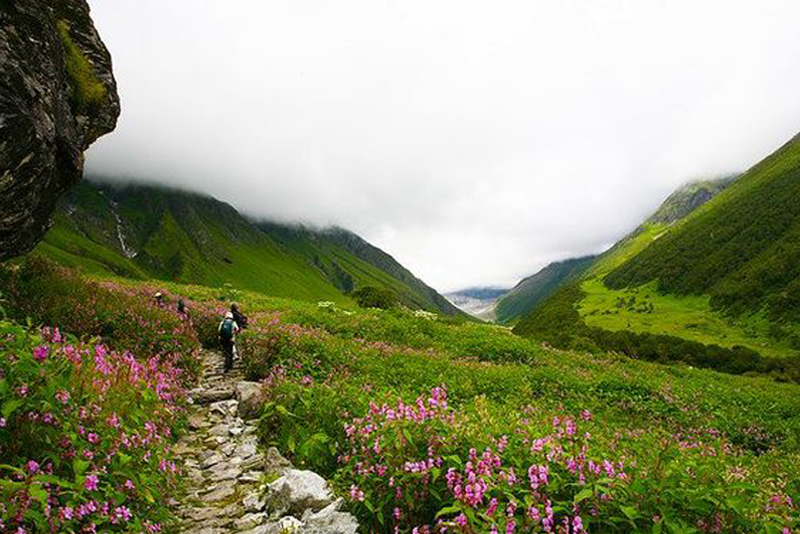
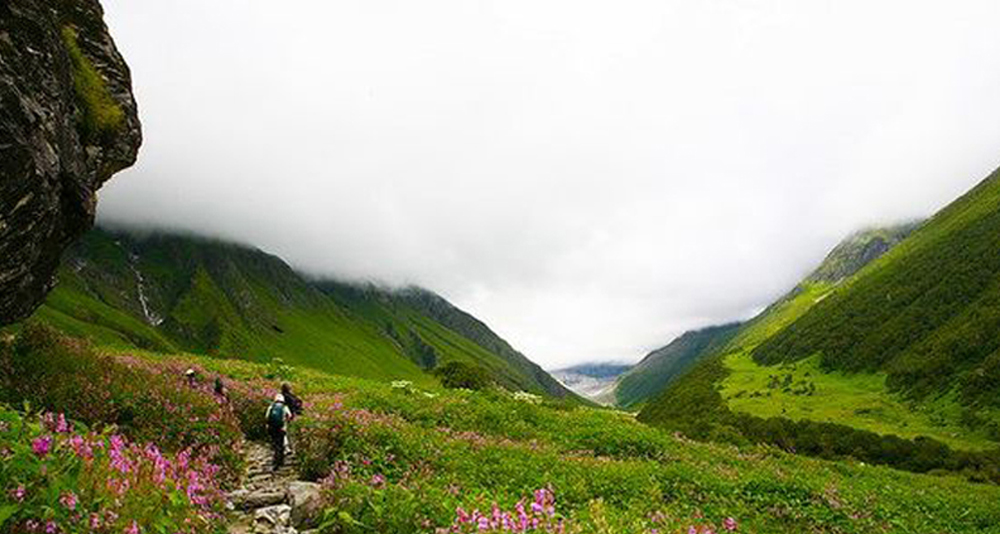
commit

diff --git a/rishikesh-location.html b/rishikesh-location.html
@@ -135,7 +135,7 @@
                             <hr class="custom-underline">
                             <p class="text-justify">Rishikesh, often referred to as the "Yoga Capital of the World," is nestled in the foothills of the Himalayas along the sacred Ganges River. Known for its spiritual ambiance and serene surroundings, Rishikesh is an ideal destination for those seeking inner peace, self-discovery, and a deeper connection with nature.</p>
                             <div class="text-center">
-                                <img src="images/rishikesh-yoga-1.jpg" class="img-fluid rounded" alt="Rishikesh Overview">
+                                <img src="images/rishikesh-first.jpg" class="img-fluid rounded" alt="Rishikesh Overview">
                             </div>
                         </div>
                     </div>
@@ -223,7 +223,7 @@
                                                 <img src="images/dinning area.jpg" class="d-block w-100" alt="Room Interior">
                                             </div>
                                             <div class="carousel-item">
-                                                <img src="images/sharedroom1.jpg" class="d-block w-100" alt="Yoga Area">
+                                                <img src="images/bathroom.jpg" class="d-block w-100" alt="Bathroom">
                                             </div>
                                         </div>
                                         <a class="carousel-control-prev" href="#carouselAccommodation1" role="button" data-bs-slide="prev">
@@ -238,10 +238,10 @@
                                     <!-- Amenities List for Accommodation Option 1 -->
                                     <ul class="list-group list-group-flush mt-3">
                                         <li class="list-group-item d-flex align-items-center">
-                                            <i class="fas fa-bed text-theme me-2"></i>Single Beds
+                                            <i class="fas fa-bed text-theme me-2"></i>Private Room
                                         </li>
                                         <li class="list-group-item d-flex align-items-center">
-                                            <i class="fas fa-bath text-theme me-2"></i>AC / Wi-Fi
+                                            <i class="fas fa-bath text-theme me-2"></i>Bathroom Amenities
                                         </li>
                                         <li class="list-group-item d-flex align-items-center">
                                             <i class="fas fa-utensils text-theme me-2"></i>In-Room Dining Service
@@ -278,13 +278,13 @@
                                     <!-- Amenities List for Accommodation Option 2 -->
                                     <ul class="list-group list-group-flush mt-3">
                                         <li class="list-group-item d-flex align-items-center">
-                                            <i class="fas fa-bed text-theme me-2"></i>Double Bed
+                                            <i class="fas fa-bed text-theme me-2"></i>Shared Room
                                         </li>
                                         <li class="list-group-item d-flex align-items-center">
                                             <i class="fas fa-bath text-theme me-2"></i>Bathroom Amenities
                                         </li>
                                         <li class="list-group-item d-flex align-items-center">
-                                            <i class="fas fa-tree text-theme me-2"></i>Private Balcony with Garden View
+                                            <i class="fas fa-tree text-theme me-2"></i>Welcoming Reception Area
                                         </li>
                                         <li class="list-group-item d-flex align-items-center">
                                             <i class="fas fa-yin-yang text-theme me-2"></i>Complimentary Yoga Mats & Props

diff --git a/3-days-yoga-retreats.html b/3-days-yoga-retreats.html
@@ -448,7 +448,7 @@
                                                     <img src="images/dinning area.jpg" class="d-block w-100" alt="Room Interior">
                                                 </div>
                                                 <div class="carousel-item">
-                                                    <img src="images/sharedroom1.jpg" class="d-block w-100" alt="Yoga Area">
+                                                    <img src="images/bathroom.jpg" class="d-block w-100" alt="Bathroom">
                                                 </div>
                                             </div>
                                             <a class="carousel-control-prev" href="#carouselAccommodation1" role="button" data-bs-slide="prev">
@@ -463,10 +463,10 @@
                                         <!-- Amenities List for Accommodation Option 1 -->
                                         <ul class="list-group list-group-flush mt-3">
                                             <li class="list-group-item d-flex align-items-center">
-                                                <i class="fas fa-bed text-theme me-2"></i>Single Beds
+                                                <i class="fas fa-bed text-theme me-2"></i>Private Room
                                             </li>
                                             <li class="list-group-item d-flex align-items-center">
-                                                <i class="fas fa-bath text-theme me-2"></i>AC / Wi-Fi
+                                                <i class="fas fa-bath text-theme me-2"></i>Bathroom Amenities
                                             </li>
                                             <li class="list-group-item d-flex align-items-center">
                                                 <i class="fas fa-utensils text-theme me-2"></i>In-Room Dining Service
@@ -476,7 +476,7 @@
                                             </li>
                                         </ul>
                                     </div>
-
+    
                                     <!-- Second Carousel for Accommodation Option 2 -->
                                     <div class="col-lg-6 mb-4">
                                         <div id="carouselAccommodation2" class="carousel slide" data-bs-ride="carousel">
@@ -503,13 +503,13 @@
                                         <!-- Amenities List for Accommodation Option 2 -->
                                         <ul class="list-group list-group-flush mt-3">
                                             <li class="list-group-item d-flex align-items-center">
-                                                <i class="fas fa-bed text-theme me-2"></i>Double Bed
+                                                <i class="fas fa-bed text-theme me-2"></i>Shared Room
                                             </li>
                                             <li class="list-group-item d-flex align-items-center">
                                                 <i class="fas fa-bath text-theme me-2"></i>Bathroom Amenities
                                             </li>
                                             <li class="list-group-item d-flex align-items-center">
-                                                <i class="fas fa-tree text-theme me-2"></i>Private Balcony with Garden View
+                                                <i class="fas fa-tree text-theme me-2"></i>Welcoming Reception Area
                                             </li>
                                             <li class="list-group-item d-flex align-items-center">
                                                 <i class="fas fa-yin-yang text-theme me-2"></i>Complimentary Yoga Mats & Props

diff --git a/5-days-yoga-retreats.html b/5-days-yoga-retreats.html
@@ -498,7 +498,7 @@
                                                     <img src="images/dinning area.jpg" class="d-block w-100" alt="Room Interior">
                                                 </div>
                                                 <div class="carousel-item">
-                                                    <img src="images/sharedroom1.jpg" class="d-block w-100" alt="Yoga Area">
+                                                    <img src="images/bathroom.jpg" class="d-block w-100" alt="Bathroom">
                                                 </div>
                                             </div>
                                             <a class="carousel-control-prev" href="#carouselAccommodation1" role="button" data-bs-slide="prev">
@@ -513,10 +513,10 @@
                                         <!-- Amenities List for Accommodation Option 1 -->
                                         <ul class="list-group list-group-flush mt-3">
                                             <li class="list-group-item d-flex align-items-center">
-                                                <i class="fas fa-bed text-theme me-2"></i>Single Beds
+                                                <i class="fas fa-bed text-theme me-2"></i>Private Room
                                             </li>
                                             <li class="list-group-item d-flex align-items-center">
-                                                <i class="fas fa-bath text-theme me-2"></i>AC / Wi-Fi
+                                                <i class="fas fa-bath text-theme me-2"></i>Bathroom Amenities
                                             </li>
                                             <li class="list-group-item d-flex align-items-center">
                                                 <i class="fas fa-utensils text-theme me-2"></i>In-Room Dining Service
@@ -526,7 +526,7 @@
                                             </li>
                                         </ul>
                                     </div>
-
+    
                                     <!-- Second Carousel for Accommodation Option 2 -->
                                     <div class="col-lg-6 mb-4">
                                         <div id="carouselAccommodation2" class="carousel slide" data-bs-ride="carousel">
@@ -553,13 +553,13 @@
                                         <!-- Amenities List for Accommodation Option 2 -->
                                         <ul class="list-group list-group-flush mt-3">
                                             <li class="list-group-item d-flex align-items-center">
-                                                <i class="fas fa-bed text-theme me-2"></i>Double Bed
+                                                <i class="fas fa-bed text-theme me-2"></i>Shared Room
                                             </li>
                                             <li class="list-group-item d-flex align-items-center">
                                                 <i class="fas fa-bath text-theme me-2"></i>Bathroom Amenities
                                             </li>
                                             <li class="list-group-item d-flex align-items-center">
-                                                <i class="fas fa-tree text-theme me-2"></i>Private Balcony with Garden View
+                                                <i class="fas fa-tree text-theme me-2"></i>Welcoming Reception Area
                                             </li>
                                             <li class="list-group-item d-flex align-items-center">
                                                 <i class="fas fa-yin-yang text-theme me-2"></i>Complimentary Yoga Mats & Props

diff --git a/7-days-yoga-retreats.html b/7-days-yoga-retreats.html
@@ -444,7 +444,7 @@
                                                     <img src="images/dinning area.jpg" class="d-block w-100" alt="Room Interior">
                                                 </div>
                                                 <div class="carousel-item">
-                                                    <img src="images/sharedroom1.jpg" class="d-block w-100" alt="Yoga Area">
+                                                    <img src="images/bathroom.jpg" class="d-block w-100" alt="Bathroom">
                                                 </div>
                                             </div>
                                             <a class="carousel-control-prev" href="#carouselAccommodation1" role="button" data-bs-slide="prev">
@@ -459,10 +459,10 @@
                                         <!-- Amenities List for Accommodation Option 1 -->
                                         <ul class="list-group list-group-flush mt-3">
                                             <li class="list-group-item d-flex align-items-center">
-                                                <i class="fas fa-bed text-theme me-2"></i>Single Beds
+                                                <i class="fas fa-bed text-theme me-2"></i>Private Room
                                             </li>
                                             <li class="list-group-item d-flex align-items-center">
-                                                <i class="fas fa-bath text-theme me-2"></i>AC / Wi-Fi
+                                                <i class="fas fa-bath text-theme me-2"></i>Bathroom Amenities
                                             </li>
                                             <li class="list-group-item d-flex align-items-center">
                                                 <i class="fas fa-utensils text-theme me-2"></i>In-Room Dining Service
@@ -472,7 +472,7 @@
                                             </li>
                                         </ul>
                                     </div>
-
+    
                                     <!-- Second Carousel for Accommodation Option 2 -->
                                     <div class="col-lg-6 mb-4">
                                         <div id="carouselAccommodation2" class="carousel slide" data-bs-ride="carousel">
@@ -499,13 +499,13 @@
                                         <!-- Amenities List for Accommodation Option 2 -->
                                         <ul class="list-group list-group-flush mt-3">
                                             <li class="list-group-item d-flex align-items-center">
-                                                <i class="fas fa-bed text-theme me-2"></i>Double Bed
+                                                <i class="fas fa-bed text-theme me-2"></i>Shared Room
                                             </li>
                                             <li class="list-group-item d-flex align-items-center">
                                                 <i class="fas fa-bath text-theme me-2"></i>Bathroom Amenities
                                             </li>
                                             <li class="list-group-item d-flex align-items-center">
-                                                <i class="fas fa-tree text-theme me-2"></i>Private Balcony with Garden View
+                                                <i class="fas fa-tree text-theme me-2"></i>Welcoming Reception Area
                                             </li>
                                             <li class="list-group-item d-flex align-items-center">
                                                 <i class="fas fa-yin-yang text-theme me-2"></i>Complimentary Yoga Mats & Props

diff --git a/chopta-location.html b/chopta-location.html
@@ -222,7 +222,7 @@
                                                 <img src="images/dinning area.jpg" class="d-block w-100" alt="Room Interior">
                                             </div>
                                             <div class="carousel-item">
-                                                <img src="images/sharedroom1.jpg" class="d-block w-100" alt="Yoga Area">
+                                                <img src="images/bathroom.jpg" class="d-block w-100" alt="Bathroom">
                                             </div>
                                         </div>
                                         <a class="carousel-control-prev" href="#carouselAccommodation1" role="button" data-bs-slide="prev">
@@ -237,10 +237,10 @@
                                     <!-- Amenities List for Accommodation Option 1 -->
                                     <ul class="list-group list-group-flush mt-3">
                                         <li class="list-group-item d-flex align-items-center">
-                                            <i class="fas fa-bed text-theme me-2"></i>Single Beds
+                                            <i class="fas fa-bed text-theme me-2"></i>Private Room
                                         </li>
                                         <li class="list-group-item d-flex align-items-center">
-                                            <i class="fas fa-bath text-theme me-2"></i>AC / Wi-Fi
+                                            <i class="fas fa-bath text-theme me-2"></i>Bathroom Amenities
                                         </li>
                                         <li class="list-group-item d-flex align-items-center">
                                             <i class="fas fa-utensils text-theme me-2"></i>In-Room Dining Service
@@ -277,13 +277,13 @@
                                     <!-- Amenities List for Accommodation Option 2 -->
                                     <ul class="list-group list-group-flush mt-3">
                                         <li class="list-group-item d-flex align-items-center">
-                                            <i class="fas fa-bed text-theme me-2"></i>Double Bed
+                                            <i class="fas fa-bed text-theme me-2"></i>Shared Room
                                         </li>
                                         <li class="list-group-item d-flex align-items-center">
                                             <i class="fas fa-bath text-theme me-2"></i>Bathroom Amenities
                                         </li>
                                         <li class="list-group-item d-flex align-items-center">
-                                            <i class="fas fa-tree text-theme me-2"></i>Private Balcony with Garden View
+                                            <i class="fas fa-tree text-theme me-2"></i>Welcoming Reception Area
                                         </li>
                                         <li class="list-group-item d-flex align-items-center">
                                             <i class="fas fa-yin-yang text-theme me-2"></i>Complimentary Yoga Mats & Props

diff --git a/himalaya-location.html b/himalaya-location.html
@@ -222,7 +222,7 @@
                                                 <img src="images/dinning area.jpg" class="d-block w-100" alt="Room Interior">
                                             </div>
                                             <div class="carousel-item">
-                                                <img src="images/sharedroom1.jpg" class="d-block w-100" alt="Yoga Area">
+                                                <img src="images/bathroom.jpg" class="d-block w-100" alt="Bathroom">
                                             </div>
                                         </div>
                                         <a class="carousel-control-prev" href="#carouselAccommodation1" role="button" data-bs-slide="prev">
@@ -237,10 +237,10 @@
                                     <!-- Amenities List for Accommodation Option 1 -->
                                     <ul class="list-group list-group-flush mt-3">
                                         <li class="list-group-item d-flex align-items-center">
-                                            <i class="fas fa-bed text-theme me-2"></i>Single Beds
+                                            <i class="fas fa-bed text-theme me-2"></i>Private Room
                                         </li>
                                         <li class="list-group-item d-flex align-items-center">
-                                            <i class="fas fa-bath text-theme me-2"></i>AC / Wi-Fi
+                                            <i class="fas fa-bath text-theme me-2"></i>Bathroom Amenities
                                         </li>
                                         <li class="list-group-item d-flex align-items-center">
                                             <i class="fas fa-utensils text-theme me-2"></i>In-Room Dining Service
@@ -277,13 +277,13 @@
                                     <!-- Amenities List for Accommodation Option 2 -->
                                     <ul class="list-group list-group-flush mt-3">
                                         <li class="list-group-item d-flex align-items-center">
-                                            <i class="fas fa-bed text-theme me-2"></i>Double Bed
+                                            <i class="fas fa-bed text-theme me-2"></i>Shared Room
                                         </li>
                                         <li class="list-group-item d-flex align-items-center">
                                             <i class="fas fa-bath text-theme me-2"></i>Bathroom Amenities
                                         </li>
                                         <li class="list-group-item d-flex align-items-center">
-                                            <i class="fas fa-tree text-theme me-2"></i>Private Balcony with Garden View
+                                            <i class="fas fa-tree text-theme me-2"></i>Welcoming Reception Area
                                         </li>
                                         <li class="list-group-item d-flex align-items-center">
                                             <i class="fas fa-yin-yang text-theme me-2"></i>Complimentary Yoga Mats & Props

diff --git a/about.html b/about.html
@@ -137,9 +137,9 @@
 					</div>
 					<div class="col-lg-7 mb-3">
 						<div class="about-content">
-							<h2 class="mb-4">About Us</h2>
-							<p class="mb-4 text-justify">At Himalayan Yoga Retreat, we invite you to embark on a transformative journey of self-discovery in the heart of Rishikesh, the "Yoga Capital of the World." Nestled along the sacred banks of the Ganges River, our retreat offers a unique opportunity to experience the profound physical, emotional, mental, and spiritual benefits of yoga amidst the serene beauty and spiritual energy of the Himalayas. Guided by experienced instructors, you will deepen your practice with enriching asanas, pranayama, yoga Nidra, and cleansing yogic purification techniques, while exploring meditation methods tailored to your individual needs. This peaceful environment provides the perfect backdrop for awakening inner strength, fostering resilience, and achieving personal growth as you step away from daily stresses and immerse yourself in the healing power of nature, community, and mindful living.</p>
-							<p class="mb-4 text-justify">At Himalayan Yoga Retreat, we offer not just a place to practice yoga, but a community that supports your journey toward greater health, happiness, and holistic well-being. Whether you are a beginner or an advanced practitioner, our diverse programs and personalized guidance cater to all levels, ensuring that you find the right path for your growth and development. Join us and begin your journey towards a more balanced, peaceful, and fulfilled life.
+							<h2 class="mb-3 text-theme">About Us</h2>
+							<p class="mb-2 text-justify">At Himalayan Yoga Retreat, we invite you to embark on a transformative journey of self-discovery in the heart of Rishikesh, the "Yoga Capital of the World." Nestled along the sacred banks of the Ganges River, our retreat offers a unique opportunity to experience the profound physical, emotional, mental, and spiritual benefits of yoga amidst the serene beauty and spiritual energy of the Himalayas. Guided by experienced instructors, you will deepen your practice with enriching asanas, pranayama, yoga Nidra, and cleansing yogic purification techniques, while exploring meditation methods tailored to your individual needs. This peaceful environment provides the perfect backdrop for awakening inner strength, fostering resilience, and achieving personal growth as you step away from daily stresses and immerse yourself in the healing power of nature, community, and mindful living.</p>
+							<p class="mb-2 text-justify">At Himalayan Yoga Retreat, we offer not just a place to practice yoga, but a community that supports your journey toward greater health, happiness, and holistic well-being. Whether you are a beginner or an advanced practitioner, our diverse programs and personalized guidance cater to all levels, ensuring that you find the right path for your growth and development.
                             </p>
 						</div>
 					</div>

diff --git a/index.html b/index.html
@@ -169,7 +169,7 @@
 					</div>
 					<div class="col-lg-6 mb-2">
 						<div class="about-content">
-							<h2 class="mb-4">Who We Are</h2>
+							<h2 class="mb-4 text-theme">About Us</h2>
 							<p class="mb-2 text-justify">At Himalayan Yoga Retreat, we invite you to embark on a transformative journey of self-discovery in the heart of Rishikesh, the "Yoga Capital of the World." Our retreat offers a unique opportunity to experience the profound physical, emotional, mental, and spiritual benefits of yoga. Guided by experienced instructors, you will deepen your practice with enriching asanas, pranayama, yoga Nidra, and cleansing yogic purification techniques, all while exploring various meditation methods.
 							Nestled along the sacred banks of the Ganges River, our retreat is set amidst the serene beauty and spiritual energy of the Himalayas. This peaceful environment provides the perfect backdrop for awakening your inner strength and achieving personal growth.
 							</p>

diff --git a/registeration.html b/registeration.html
@@ -134,7 +134,7 @@
                     </div>
                     <!-- Right Form Section -->
                     <div class="col-lg-7 registration-form">
-                        <h2 class="text-center fw-bold mb-4 creative-border">Application Form</h2>
+                        <h2 class="text-center fw-bold mb-5 creative-border">Application Form</h2>
                         <form id="registrationForm">
 							<div class="row">
 								<div class="col-md-6 col-lg-6 mb-3">
@@ -191,7 +191,7 @@
 								</div>
 							</div>
 							<div class="row">
-								<div class="col-lg-12 mb-3">
+								<div class="col-lg-12 mb-2">
 									<label for="message" class="form-label">Message</label>
 									<textarea class="form-control" id="message" name="message" rows="4"></textarea>
 								</div>

diff --git a/css/scss/main.scss b/css/scss/main.scss
@@ -138,7 +138,7 @@ a {
     border-width: 2px; // Adjust border width
     border-style: double; // Use different border styles like dotted, dashed, etc.
     font-weight: bolder;
-    font-size: 22px;
+    font-size: 20px;
     text-transform: uppercase;
 }
 
@@ -472,9 +472,9 @@ footer {
         padding: 30px;
 
         h2 {
-            font-size: 2.5rem;
-            font-weight: 700;
-            color: $dark;
+            font-size: 1.9rem;
+            font-weight: 600;
+            text-transform: uppercase;
         }
 
         p {
@@ -947,7 +947,6 @@ footer {
 
     p {
         color: #555; // Slightly muted color for paragraph text
-        font-weight: 600; // Semi-bold font for emphasis
         margin-bottom: 15px; // Margin below paragraph
     }
 

diff --git a/css/scss/main.css b/css/scss/main.css
@@ -139,7 +139,7 @@ a {
   border-width: 2px;
   border-style: double;
   font-weight: bolder;
-  font-size: 22px;
+  font-size: 20px;
   text-transform: uppercase;
 }
 
@@ -419,9 +419,9 @@ footer .link-animated a:hover {
   padding: 30px;
 }
 .about-section .about-content h2 {
-  font-size: 2.5rem;
-  font-weight: 700;
-  color: #212529;
+  font-size: 1.9rem;
+  font-weight: 600;
+  text-transform: uppercase;
 }
 .about-section .about-content p {
   font-size: 1rem;
@@ -817,7 +817,6 @@ footer .link-animated a:hover {
 }
 #eligibility p {
   color: #555;
-  font-weight: 600;
   margin-bottom: 15px;
 }
 #eligibility .eligibility-list {
